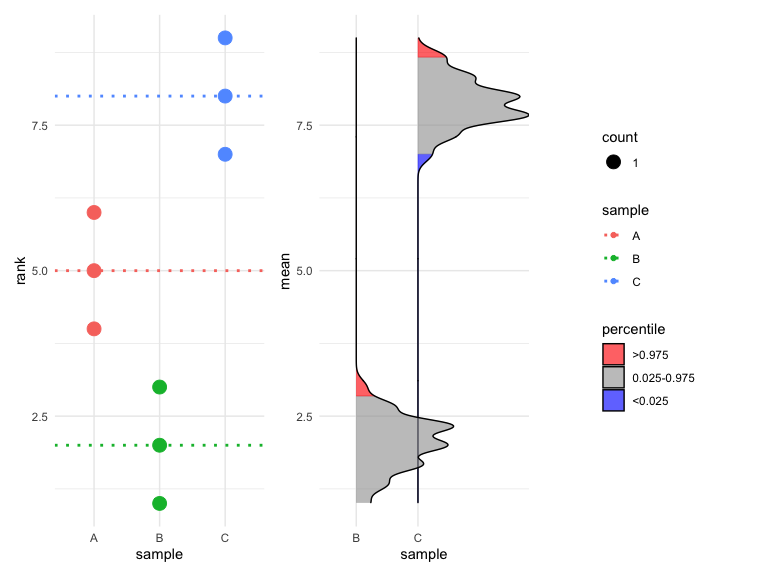
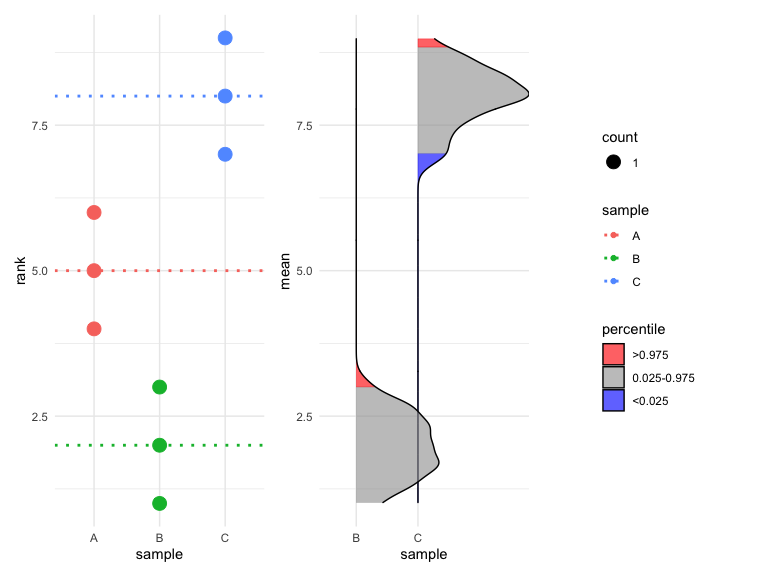
re - update readme

Changed region(s): [[0.5312, 0.0625, 0.6875, 0.3125], [0.4688, 0.6562, 0.5938, 0.875], [0.4375, 0.625, 0.4688, 0.6562]]

diff --git a/Readme.md b/Readme.md
@@ -21,30 +21,6 @@ devtools::install_github("TeamMacLean/besthr@allow_titles"
 )
 ```
 
-    ## Downloading GitHub repo TeamMacLean/besthr@allow_titles
-
-    ## tzdb  (0.2.0 -> 0.3.0) [CRAN]
-    ## dplyr (1.0.8 -> 1.0.9) [CRAN]
-
-    ## Installing 2 packages: tzdb, dplyr
-
-    ## Installing packages into '/Users/macleand/Library/Caches/org.R-project.R/R/renv/library/besthr-a5598785/R-4.2/aarch64-apple-darwin20'
-    ## (as 'lib' is unspecified)
-
-    ## 
-    ## The downloaded binary packages are in
-    ##  /var/folders/22/kjdvv_k14cj1m6hq5hl527qw0006zc/T//RtmpSQc1ZH/downloaded_packages
-    ## * checking for file ‘/private/var/folders/22/kjdvv_k14cj1m6hq5hl527qw0006zc/T/RtmpSQc1ZH/remotesa871587abd3a/TeamMacLean-besthr-3afae52/DESCRIPTION’ ... OK
-    ## * preparing ‘besthr’:
-    ## * checking DESCRIPTION meta-information ... OK
-    ## * checking for LF line-endings in source and make files and shell scripts
-    ## * checking for empty or unneeded directories
-    ## Omitted ‘LazyData’ from DESCRIPTION
-    ## * building ‘besthr_0.3.0.tar.gz’
-
-    ## Installing package into '/Users/macleand/Library/Caches/org.R-project.R/R/renv/library/besthr-a5598785/R-4.2/aarch64-apple-darwin20'
-    ## (as 'lib' is unspecified)
-
 ## Citation
 
 Please cite as
@@ -108,7 +84,7 @@ hr_est_1
     ## Unpaired mean rank difference of A (14.9, n=10) minus B (6.1, n=10)
     ##  8.8
     ## Confidence Intervals (0.025, 0.975)
-    ##  4.15, 7.955
+    ##  3.5475, 8.52625
     ## 
     ## 100 bootstrap resamples.
 
@@ -116,7 +92,7 @@ hr_est_1
 plot(hr_est_1)
 ```
 
-    ## Picking joint bandwidth of 0.389
+    ## Picking joint bandwidth of 0.431
 
 ![](Readme_files/figure-gfm/unnamed-chunk-2-1.png)<!-- -->
 
@@ -130,7 +106,7 @@ estimate(hr_data_1, score, group, control = "B" ) %>%
   plot()
 ```
 
-    ## Picking joint bandwidth of 0.381
+    ## Picking joint bandwidth of 0.371
 
 ![](Readme_files/figure-gfm/unnamed-chunk-3-1.png)<!-- -->
 
@@ -143,7 +119,7 @@ estimate(hr_data_1, score, group, control = "A", nits = 1000, low = 0.4, high = 
   plot()
 ```
 
-    ## Picking joint bandwidth of 0.262
+    ## Picking joint bandwidth of 0.253
 
 ![](Readme_files/figure-gfm/unnamed-chunk-4-1.png)<!-- -->
 
@@ -198,12 +174,12 @@ hr_est_3
     ## Unpaired mean rank difference of A (5, n=3) minus B (2, n=3)
     ##  3
     ## Confidence Intervals (0.025, 0.975)
-    ##  1, 2.84166666666666
+    ##  1, 3
     ## 
     ## Unpaired mean rank difference of A (5, n=3) minus C (8, n=3)
     ##  -3
     ## Confidence Intervals (0.025, 0.975)
-    ##  7, 8.66666666666667
+    ##  7, 8.84166666666666
     ## 
     ## 100 bootstrap resamples.
 
@@ -211,7 +187,7 @@ hr_est_3
 plot(hr_est_3)
 ```
 
-    ## Picking joint bandwidth of 0.127
+    ## Picking joint bandwidth of 0.178
 
 ![](Readme_files/figure-gfm/unnamed-chunk-5-1.png)<!-- -->
 
@@ -227,7 +203,7 @@ hr_est_3 %>%
   plot(which = "just_data")
 ```
 
-    ## Picking joint bandwidth of 0.127
+    ## Picking joint bandwidth of 0.178
 
 ![](Readme_files/figure-gfm/unnamed-chunk-6-1.png)<!-- -->
 
@@ -254,7 +230,7 @@ p + plot_annotation(title = 'A stylish besthr plot',
                     caption = 'Though this example is not meaningful')
 ```
 
-    ## Picking joint bandwidth of 0.389
+    ## Picking joint bandwidth of 0.431
 
 ![](Readme_files/figure-gfm/unnamed-chunk-7-1.png)<!-- -->
 
@@ -262,7 +238,7 @@ p + plot_annotation(title = 'A stylish besthr plot',
 p
 ```
 
-    ## Picking joint bandwidth of 0.389
+    ## Picking joint bandwidth of 0.431
 
 ![](Readme_files/figure-gfm/unnamed-chunk-7-2.png)<!-- -->
 
@@ -282,7 +258,7 @@ p[[1]] <- p[[1]] + theme(axis.title.y = element_text(family = "Times", colour="b
 p
 ```
 
-    ## Picking joint bandwidth of 0.389
+    ## Picking joint bandwidth of 0.431
 
 ![](Readme_files/figure-gfm/unnamed-chunk-8-1.png)<!-- -->
 
@@ -301,7 +277,7 @@ p[[1]] <- p[[1]] + scale_colour_manual(values = c("blue", "#440000"))
 p
 ```
 
-    ## Picking joint bandwidth of 0.389
+    ## Picking joint bandwidth of 0.431
 
 ![](Readme_files/figure-gfm/unnamed-chunk-9-1.png)<!-- -->
 
@@ -316,7 +292,7 @@ p[[1]] <- p[[1]] + scale_colour_viridis_d()
 p
 ```
 
-    ## Picking joint bandwidth of 0.389
+    ## Picking joint bandwidth of 0.431
 
 ![](Readme_files/figure-gfm/unnamed-chunk-9-2.png)<!-- -->
 
@@ -331,7 +307,7 @@ p[[1]] <- p[[1]] + scale_colour_brewer(type="qual", palette="Accent")
 p
 ```
 
-    ## Picking joint bandwidth of 0.389
+    ## Picking joint bandwidth of 0.431
 
 ![](Readme_files/figure-gfm/unnamed-chunk-9-3.png)<!-- -->
 
@@ -354,6 +330,6 @@ p[[2]] <- p[[2]] + scale_fill_manual(
 p
 ```
 
-    ## Picking joint bandwidth of 0.389
+    ## Picking joint bandwidth of 0.431
 
 ![](Readme_files/figure-gfm/unnamed-chunk-10-1.png)<!-- -->
